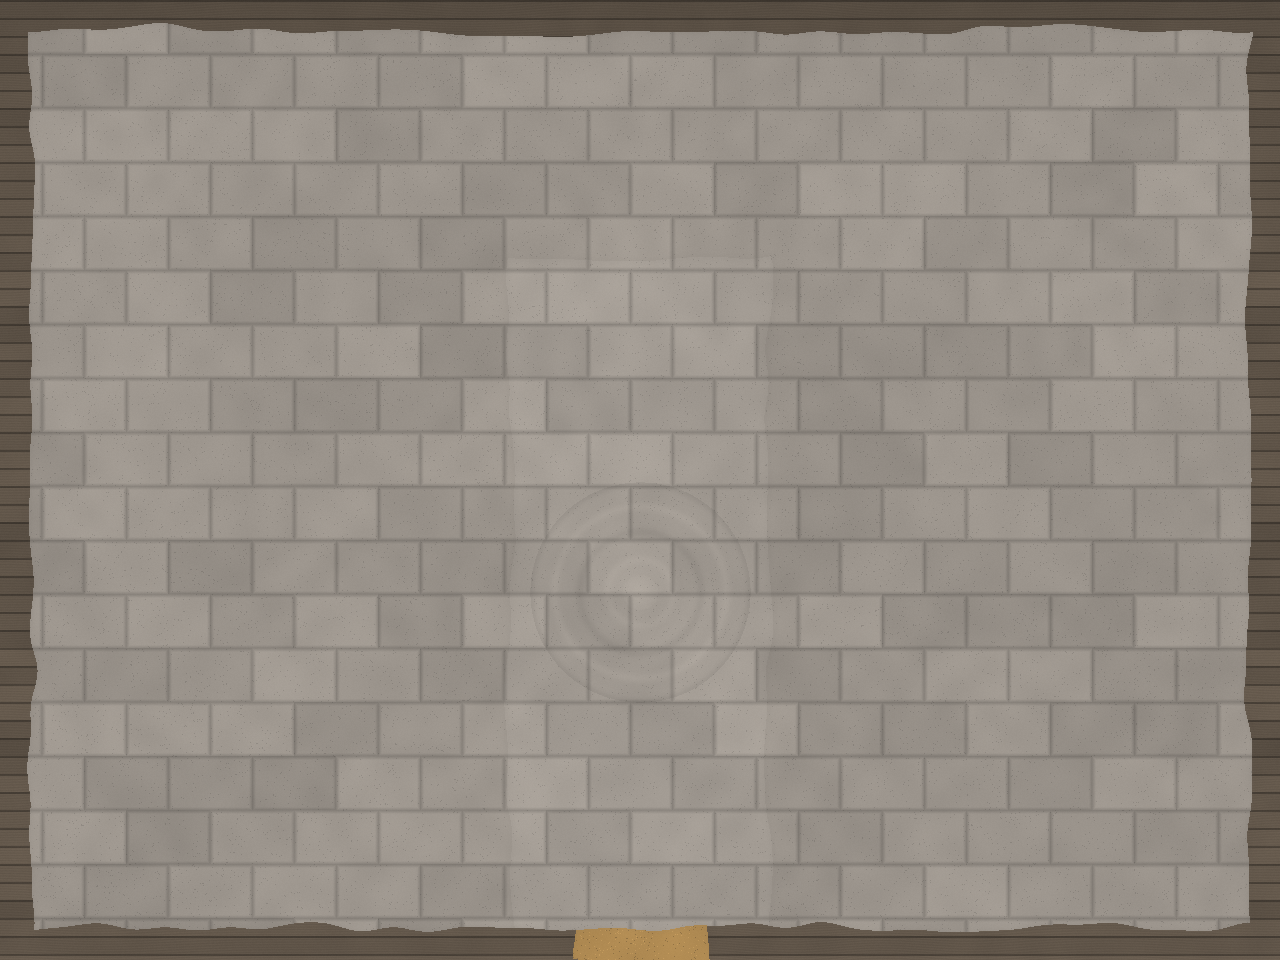
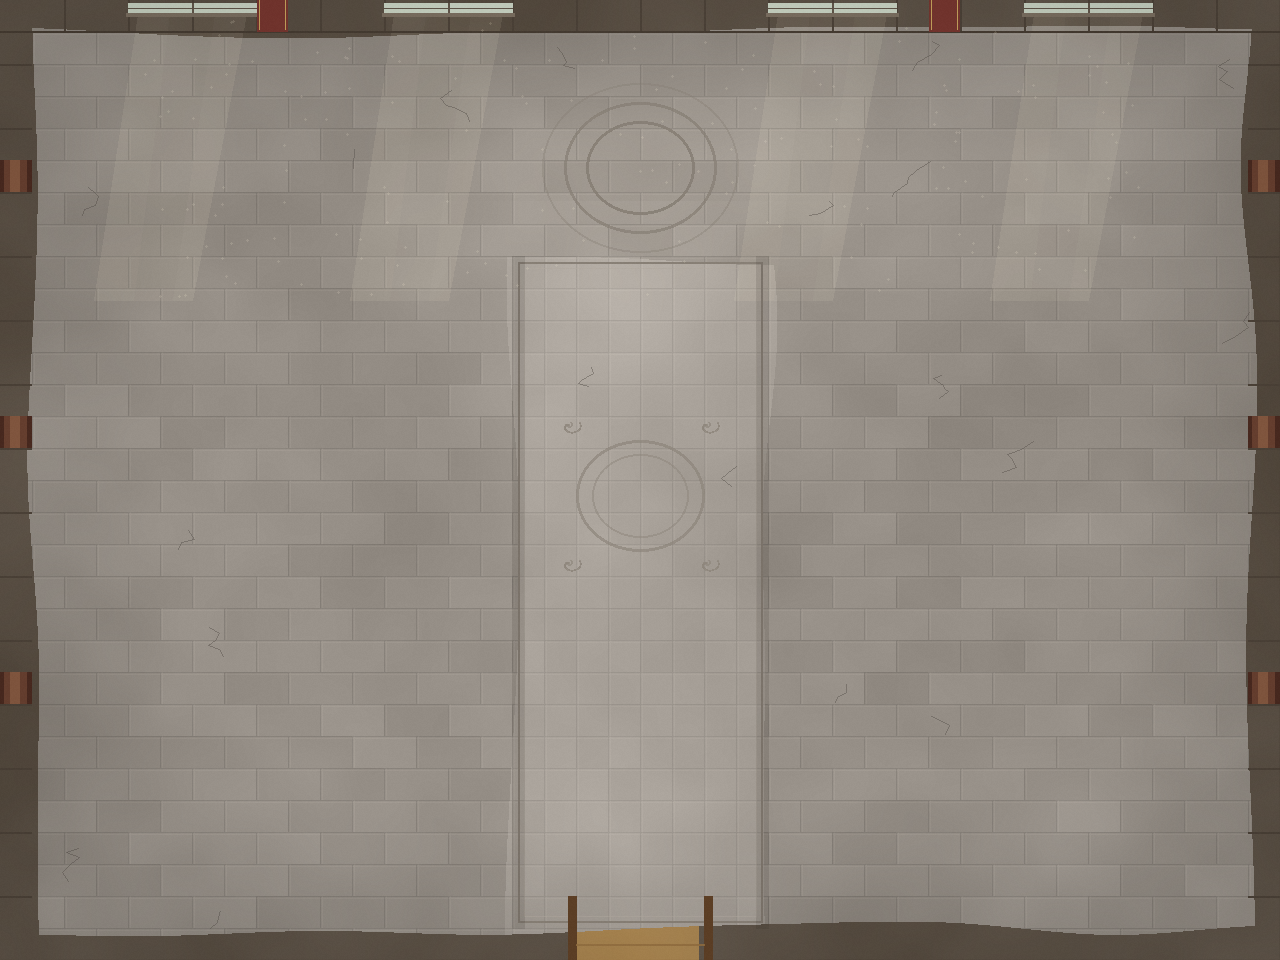
Kiem Trac Thap lam sinh dong: san thap va sanh thap ve lai, them 28 vat the, giu nguyen moi neo

diff --git a/js/logic.js b/js/logic.js
@@ -908,7 +908,37 @@
     var pts = [{ x: 35, y: 52, r: 3 }, { x: 35, y: 13, r: 3 }, { x: 8, y: 48, r: 3 },
       { x: 35, y: 0, r: 2 }, { x: 35, y: 55, r: 2 }]
       .concat(npcPoints(TOWER_NPCS)).concat(signPoints(TOWER_SIGNS));
-    return props.concat(scatterTrees(TOWER_GRID, TOWER_W, TOWER_H, 'cay_t', 37, null, 1, makeAvoid(pts, propRects(props))));
+    return props.concat(scatterTrees(TOWER_GRID, TOWER_W, TOWER_H, 'cay_t', 37, null, 1, makeAvoid(pts, propRects(props)))).concat([
+      /* Đợt làm giàu hình ảnh tháp 2026-11-04: vật thể trang trí bố cục
+         lại sân tháp (trụ cổng bắc, lư hương đài, đèn đá dọc trục, bia
+         cổng nam, anh đào hai góc bắc, góc thiền tây nam, bồn hoa bốn
+         góc sân). Nối SAU scatter để 47 cây rải hạt 37 giữ nguyên vị
+         trí; mọi footprint khai thật, không đè neo nhiệm vụ/cổng/NPC. */
+      { id: 'tru_cua_bac_a', type: 'gate_pillar', x: 31, y: 1, w: 2, h: 3, fx: 2, fy: 1, name: 'Trụ Cổng Tháp' },
+      { id: 'tru_cua_bac_b', type: 'gate_pillar', x: 39, y: 1, w: 2, h: 3, fx: 2, fy: 1, name: 'Trụ Cổng Tháp' },
+      { id: 'lu_huong_dai_a', type: 'lu_huong', x: 32, y: 6, w: 1, h: 1, fx: 1, fy: 1, name: 'Lư Hương Đài Thước' },
+      { id: 'lu_huong_dai_b', type: 'lu_huong', x: 39, y: 6, w: 1, h: 1, fx: 1, fy: 1, name: 'Lư Hương Đài Thước' },
+      { id: 'den_truc_a', type: 'lantern2', x: 33, y: 19, w: 1, h: 1, fx: 1, fy: 1, name: 'Đèn Đá Ven Đường' },
+      { id: 'den_truc_b', type: 'lantern2', x: 38, y: 19, w: 1, h: 1, fx: 1, fy: 1, name: 'Đèn Đá Ven Đường' },
+      { id: 'den_truc_c', type: 'lantern2', x: 33, y: 35, w: 1, h: 1, fx: 1, fy: 1, name: 'Đèn Đá Ven Đường' },
+      { id: 'den_truc_d', type: 'lantern2', x: 38, y: 35, w: 1, h: 1, fx: 1, fy: 1, name: 'Đèn Đá Ven Đường' },
+      { id: 'den_truc_e', type: 'lantern2', x: 33, y: 47, w: 1, h: 1, fx: 1, fy: 1, name: 'Đèn Đá Ven Đường' },
+      { id: 'den_truc_f', type: 'lantern2', x: 38, y: 47, w: 1, h: 1, fx: 1, fy: 1, name: 'Đèn Đá Ven Đường' },
+      { id: 'bia_cong_nam_a', type: 'stele_small', x: 31, y: 50, w: 1, h: 1, fx: 1, fy: 1, name: 'Bia Nhỏ Cổng Nam' },
+      { id: 'bia_cong_nam_b', type: 'stele_small', x: 40, y: 50, w: 1, h: 1, fx: 1, fy: 1, name: 'Bia Nhỏ Cổng Nam' },
+      { id: 'dao_tay_bac', type: 'sakura_big', x: 17, y: 2, w: 2, h: 3, fx: 2, fy: 1 },
+      { id: 'dao_dong_bac', type: 'sakura_big', x: 54, y: 2, w: 2, h: 3, fx: 2, fy: 1 },
+      { id: 'thong_thien_a', type: 'pine2', x: 4, y: 43, w: 1, h: 2, fx: 1, fy: 1 },
+      { id: 'den_thien_a', type: 'lantern_low', x: 6, y: 46, w: 1, h: 1, fx: 1, fy: 1 },
+      { id: 'den_thien_b', type: 'lantern_low', x: 11, y: 46, w: 1, h: 1, fx: 1, fy: 1 },
+      { id: 'ghe_thien', type: 'bench_stone', x: 11, y: 49, w: 1, h: 1, fx: 1, fy: 1 },
+      { id: 'hoa_thien_a', type: 'flower_bush', x: 5, y: 51, w: 1, h: 1, fx: 1, fy: 1 },
+      { id: 'hoa_thien_b', type: 'flower_bush', x: 12, y: 50, w: 1, h: 1, fx: 1, fy: 1 },
+      { id: 'hoa_san_a', type: 'flower_bush', x: 15, y: 15, w: 1, h: 1, fx: 1, fy: 1 },
+      { id: 'hoa_san_b', type: 'flower_bush', x: 56, y: 15, w: 1, h: 1, fx: 1, fy: 1 },
+      { id: 'hoa_san_c', type: 'flower_bush', x: 15, y: 49, w: 1, h: 1, fx: 1, fy: 1 },
+      { id: 'hoa_san_d', type: 'flower_bush', x: 56, y: 49, w: 1, h: 1, fx: 1, fy: 1 }
+    ]);
   })();
 
   /* ---- Nội thất tháp 40x30 ---- */
@@ -932,7 +962,13 @@
     { id: 'den_noi_a', type: 'lantern', x: 6, y: 4, w: 1, h: 2, fx: 1, fy: 1 },
     { id: 'den_noi_b', type: 'lantern', x: 32, y: 4, w: 1, h: 2, fx: 1, fy: 1 },
     { id: 'den_noi_c', type: 'lantern', x: 6, y: 24, w: 1, h: 2, fx: 1, fy: 1 },
-    { id: 'den_noi_d', type: 'lantern', x: 32, y: 24, w: 1, h: 2, fx: 1, fy: 1 }
+    { id: 'den_noi_d', type: 'lantern', x: 32, y: 24, w: 1, h: 2, fx: 1, fy: 1 },
+    /* Đợt làm giàu hình ảnh tháp 2026-11-04: lư hương hai bên thước
+       lớn + ghế đá chờ hai phía sảnh (footprint khai thật). */
+    { id: 'lu_huong_sanh_a', type: 'lu_huong', x: 16, y: 5, w: 1, h: 1, fx: 1, fy: 1, name: 'Lư Hương Sảnh Tháp' },
+    { id: 'lu_huong_sanh_b', type: 'lu_huong', x: 23, y: 5, w: 1, h: 1, fx: 1, fy: 1, name: 'Lư Hương Sảnh Tháp' },
+    { id: 'ghe_sanh_a', type: 'bench_stone', x: 8, y: 20, w: 1, h: 1, fx: 1, fy: 1 },
+    { id: 'ghe_sanh_b', type: 'bench_stone', x: 31, y: 20, w: 1, h: 1, fx: 1, fy: 1 }
   ];
 
   /* ---- Thanh Vân Tông 124x92 ---- */
